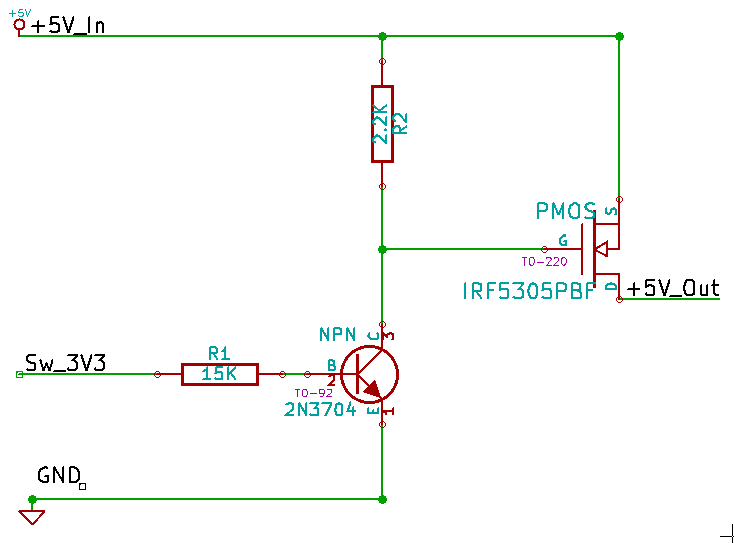
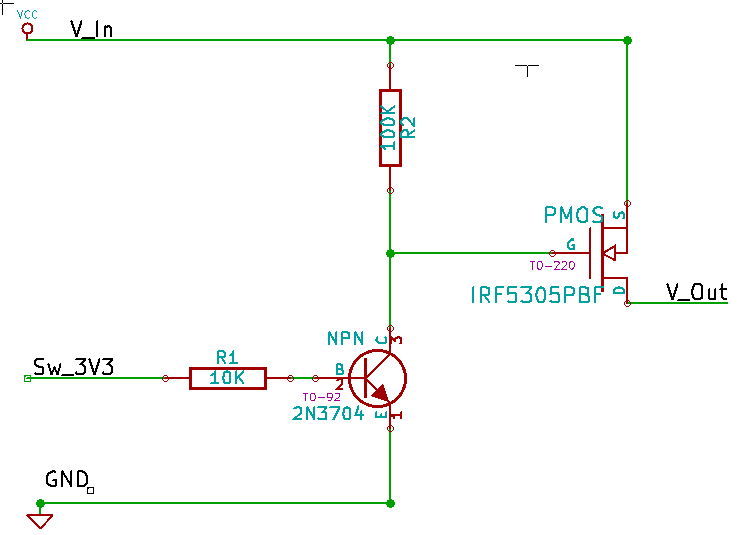
Update schematic to use new resistor values Complete "Building design" part of tutorial

Changed region(s): [[0.0, 0.0, 0.9891, 0.9869], [0.9891, 0.9869, 1.0, 1.0], [0.6894, 0.1196, 0.7193, 0.1495]]

diff --git a/src/power/power-b.html b/src/power/power-b.html
@@ -27,14 +27,14 @@
       <h1>Design</h1>
       <h2>Schematic</h2>
       <div>
-        <img src="Power Control Schematic.png"/>
+        <img class="centre" src="img/Power Control Schematic.png"/>
       </div>
       <h2>Equipment List</h2>
       <h3>Circuit</h3>
       These components are required to implement the circuit:
         <ul>
             <li>
-                <p><a href="http://uk.rs-online.com/web/p/mosfet-transistors/5411736/">IRF5305PBF</a>: A power p-channel MOSFET. Alternatives: <a href="http://uk.rs-online.com/web/p/mosfet-transistors/6504485/">IRLIB9343pbF</a>.</p>
+                <p><a href="http://uk.rs-online.com/web/p/mosfet-transistors/5411736/">IRF5305PBF</a> (<a href="http://www.irf.com/product-info/datasheets/data/irf5305pbf.pdf">Datasheet</a>.) A power p-channel MOSFET. Alternatives: <a href="http://uk.rs-online.com/web/p/mosfet-transistors/6504485/">IRLIB9343pbF</a>.</p>
 
                 <p>The key criteria to look for is a low drain-source resistance. This keeps power dissipation low, avoiding needing to mount a heat sink.</p>
 
@@ -43,10 +43,9 @@
                 <p>The recommended transistor has a resistance of only 0.093 Ohm, so it would take over a 10 A current draw to cause a voltage drop of just 0.1 V. This is more than enough for most applications!</p>
             </li>
             <li>
-                <p><a href="http://uk.rs-online.com/web/p/bipolar-transistors/0295905/">2N3704</a>: A typical NPN amplifier. Alternatives: <a href="http://uk.rs-online.com/web/p/bipolar-transistors/5452232/">BC547</a>. Almost any other NPN BJT transistor should also work.</p>
+                <p><a href="http://uk.rs-online.com/web/p/bipolar-transistors/0295905/">2N3704</a> (<a href="www.futurlec.com/Datasheet/Transistor/2N3704.pdf">Datasheet</a>.) A typical NPN amplifier. Alternatives: <a href="http://uk.rs-online.com/web/p/bipolar-transistors/5452232/">BC547</a>. Almost any other NPN BJT transistor should also work.</p>
             </li>
-            <li>Two resistors. The exact values are not too important. However, the resistor connected to the base of the NPN transistor should be around 10 times that of the one connected to the supply input.</li>
-            <li></li>
+            <li>Two resistors. The exact values are not too important. These are in place to prevent too much current being drawn from the Raspberry Pi, and to enable the NPN transistor to pull the collector down to ground.</li>
         </ul>
       <h3>Other components</h3>
       In addition, if you are planning on following the <a href="#howtobuildit">construction instructions</a> in this tutorial then you will need the following equipment:
@@ -63,12 +62,21 @@
           <p>The end result is that when the Pi gives a low input, no power supply is provided. When the Pi gives a high input, power is turned on.</p>
       <h1 id="howtobuildit">How to Build It</h1>
         <p>I will show how to build the circuit using a breadboard: an easy way of prototyping electronics. I would recommend first reading the <a href="http://www.cl.cam.ac.uk/projects/raspberrypi/tutorials/robot/breadboard/">breadboard tutorial</a> if you have not used one before.</p>
-        <p></p>
-* Connect breakout board
-* Plug in components. Orientation!
+        <div><a href="img/Bare.jpg"><img class="centre" src="img/Bare Scaled.jpg"/></a></div>
+        <p>Start by connecting the breakout board. The two rows of pins on the breakout board should go on either side of the central divide on the breadboard. Make sure that the top pin on the breakout board is connected to row 1 of the breakout board. This will make it easier to tell where connections should be made.</p>
+        <p>Connect GND (pin 11) to the negative (blue, in the picture) rail running along the breakout board.</p>
+        <div><a href="img/Components Labeled.jpg"><img class="centre" src="img/Components Only Scaled.jpg"/></a></div>
+        <p>Connect the NPN transistor and MOSFET. <strong>Be careful</strong> to get the orientation the same as in the picture. The flat edge of the NPN transistor should face the edge, and the metal edge of the MOSFET should face the central divide. You can put the components in facing the opposite way round, but then the pinout will be reversed.</p>
+        <p>I have connected the NPN transistor to rows 25-27, and the MOSFET to rows 35-37. The emittter, collector and base of the NPN amplifier are connected to rows 25, 26 and 27 respectively. The gate, drain and source are connected to rows 35, 36 and 37 respectively.</p>
+        <p>The drain of the MOSFET is the output of the circuit, which I have connected to the positive (red, in the picture) rail running along the breakout board.</p>
+        <div><a href="img/NPN Only.jpg"><img class="centre" src="img/NPN Only Scaled.jpg"/></a></div>
+        <p>Connect the 100 kOhm resistor between the supply voltage and the collector (row 26) of the NPN transistor. Here I am using the Pi's built-in 5 V supply rail (row 13), which is connected directly to the Pi's power supply.</p>
+        <p>Choose a free GPIO pin for the digital output. Here I am using the pin in the first (topmost) row, on the left-hand side of the breakout board. This is BCM pin #7, WiringPi pin #11. Connect this pin to an unused row on the breakout board, here I am using row 18. Then connect row 18 to the base of the NPN transistor (row 27) using the 10 kOhm resistor.</p>
+        <div><a href="img/Complete.jpg"><img class="centre" src="img/Complete Scaled.jpg"/></a></div>
+        <p>Connect the collector (row 26) of the NPN transistor to the gate (row 35) of the MOSFET. Connect the 5 V supply rail (row 13), or your chosen power source, to the source (row 37) of the MOSFET.</p>
+        <p>Congratulations! You've now finished building the circuit.</p>
       <h1>Testing</h1>
       </div>
-
     <hr/>
     <p>&copy; 2013 Adam Gleave</p>
     <p>All code licensed under the <a href="LICENSE">MIT license</a>.</p>
